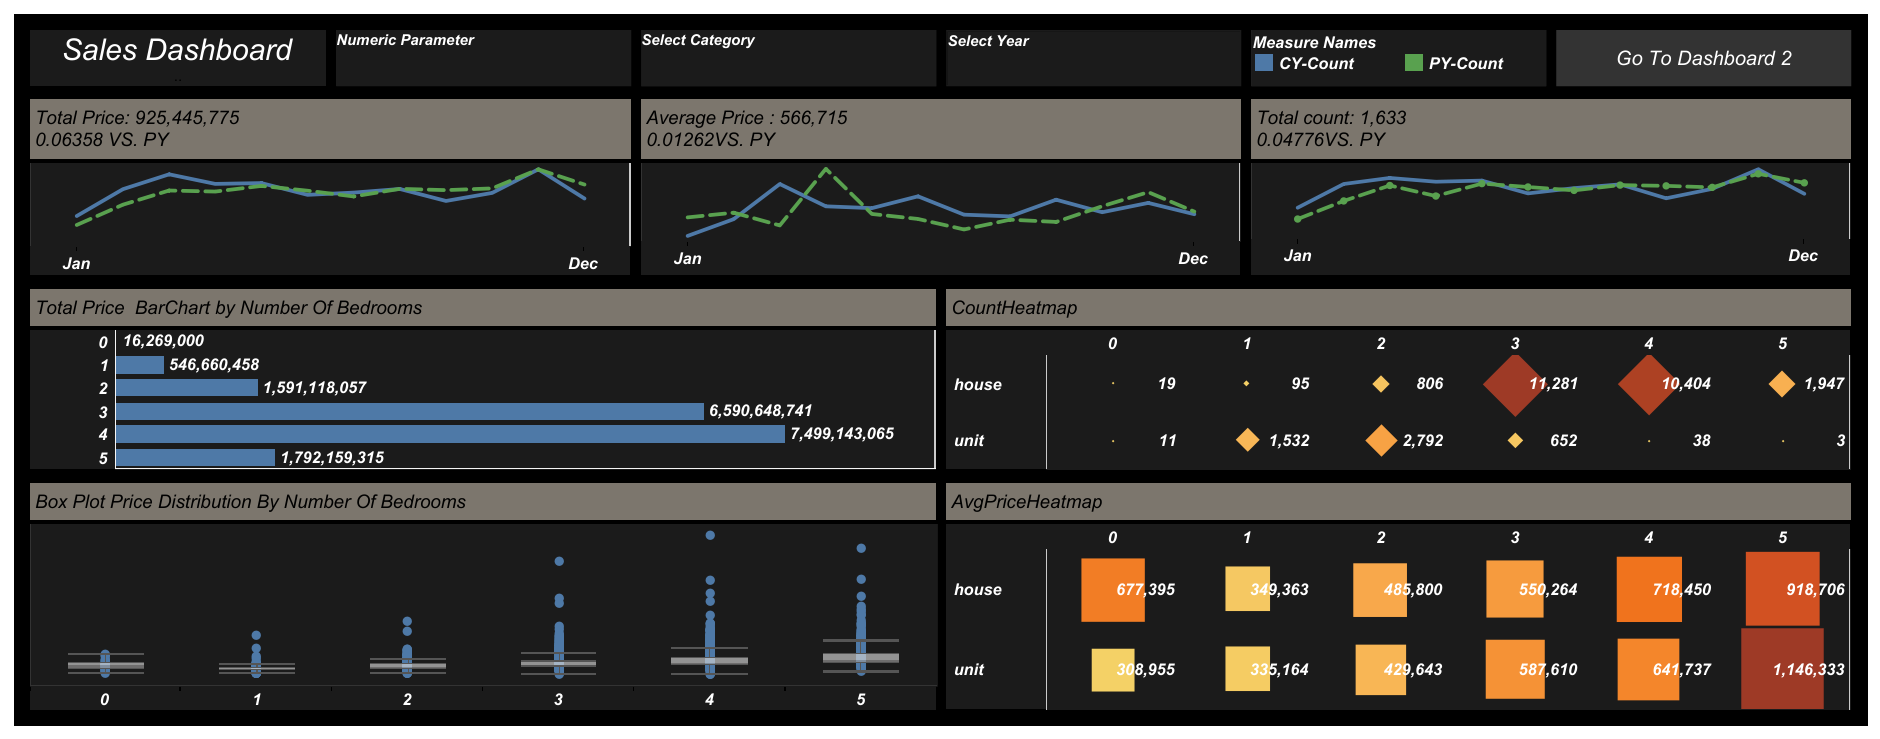
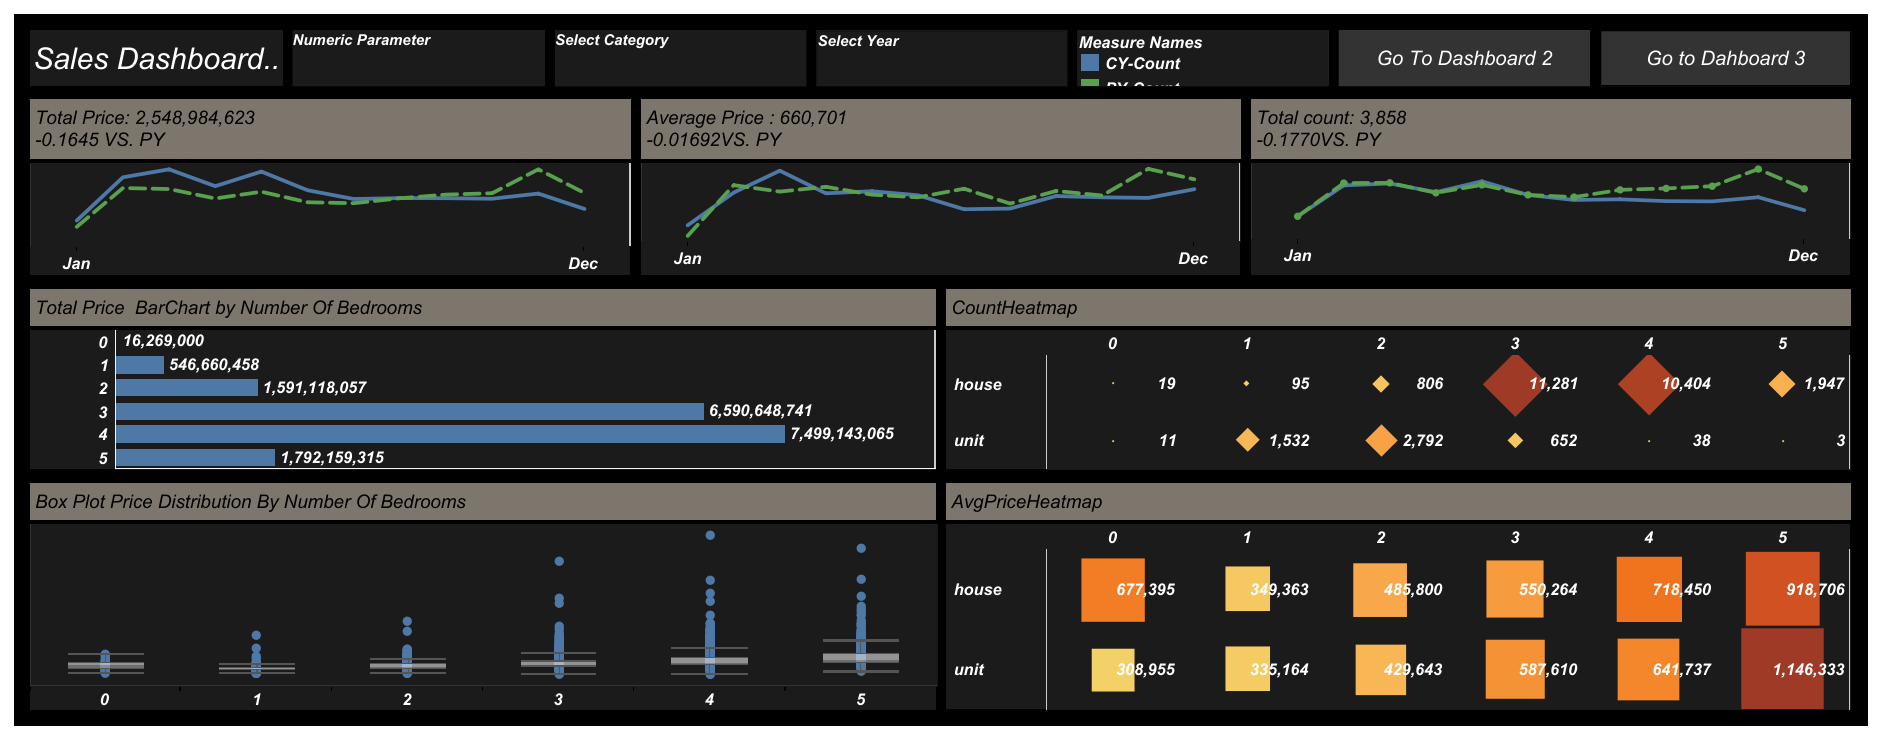
adding 3rd dashboard

diff --git a/README.md b/README.md
@@ -29,5 +29,12 @@
 
 
 
+## *3nd Dashboard*
+
+![alt text](Dashboard_3.png)
+
+
+
+
 ## *Conclusion*
 *This project harnesses Tableau's capabilities to empower stakeholders with a dynamic platform for sales data analysis. The derived insights lead to informed decisions and refined sales strategies.*
